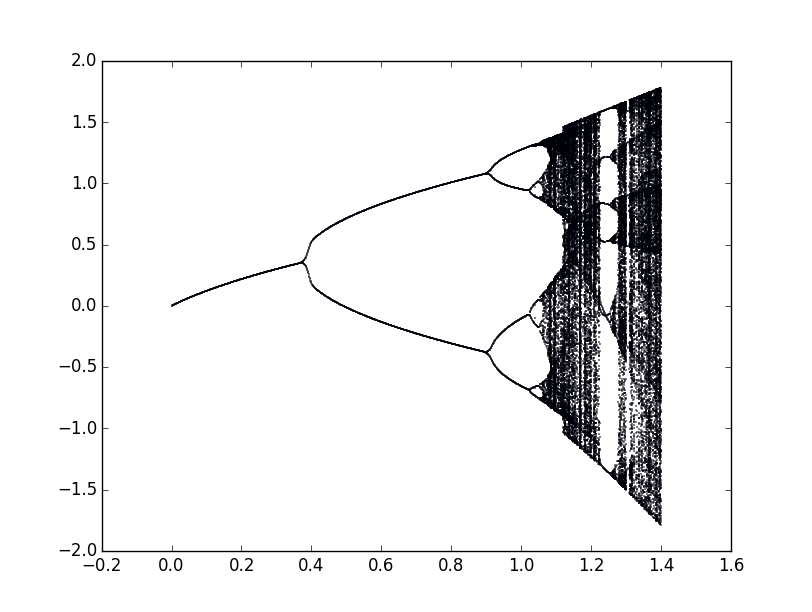
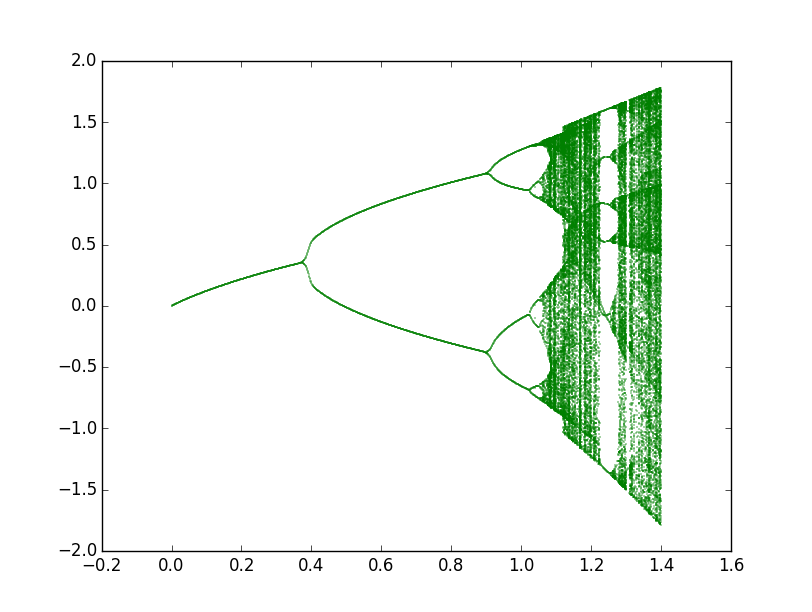
Initial commit

diff --git a/henonmap.html b/henonmap.html
@@ -132,7 +132,7 @@ python</code>
 <div class="math">
 \begin{equation*}
 \begin{cases}
-x_{n+1} = a-x_n ^2 + byn \\
+x_{n+1} = a-x_n ^2 + by_n \\
 y_{n+1} = x_n
 \end{cases}
 \end{equation*}
@@ -146,8 +146,8 @@ y_{n+1} = x_n
 
 <span class="sd">&quot;&quot;&quot;</span>
 <span class="sd">Bifurcation diagram for the Hénon map</span>
-<span class="sd">  x_n+1 = a-xn*xn+b*yn</span>
-<span class="sd">  y_n+1 = xn</span>
+<span class="sd">  x_{n+1} = a-xn*xn+b*yn</span>
+<span class="sd">  y_{n+1} = xn</span>
 <span class="sd">&quot;&quot;&quot;</span>
 
 <span class="c"># Scientific libraries</span>
@@ -158,19 +158,18 @@ y_{n+1} = x_n
 <span class="n">EPS</span> <span class="o">=</span> <span class="mf">0.01</span>
 <span class="n">MAXP</span> <span class="o">=</span> <span class="mi">1000</span>
 
-<span class="n">AA</span> <span class="o">=</span> <span class="p">[]</span>
-<span class="n">XX</span> <span class="o">=</span> <span class="p">[]</span>
-<span class="n">YY</span> <span class="o">=</span> <span class="p">[]</span>
-<span class="n">PP</span> <span class="o">=</span> <span class="p">[]</span>
+<span class="c"># Hénon map</span>
 
 <span class="n">b</span> <span class="o">=</span> <span class="mf">0.3</span>
-<span class="nb">file</span> <span class="o">=</span> <span class="nb">open</span><span class="p">(</span><span class="s">&quot;diagram.dat&quot;</span><span class="p">,</span><span class="s">&quot;w&quot;</span><span class="p">)</span>
+<span class="k">def</span> <span class="nf">henon</span><span class="p">(</span><span class="n">xn</span><span class="p">,</span> <span class="n">yn</span><span class="p">):</span>
+    <span class="k">return</span> <span class="p">[</span><span class="n">a</span><span class="o">-</span><span class="n">xn</span><span class="o">*</span><span class="n">xn</span><span class="o">+</span><span class="n">b</span><span class="o">*</span><span class="n">yn</span><span class="p">,</span> <span class="n">xn</span><span class="p">]</span>
 
 <span class="c"># Compute bifurcations and write in a data file</span>
 
+<span class="nb">file</span> <span class="o">=</span> <span class="nb">open</span><span class="p">(</span><span class="s">&quot;diagram.dat&quot;</span><span class="p">,</span><span class="s">&quot;w&quot;</span><span class="p">)</span>
 <span class="k">print</span><span class="p">(</span><span class="s">&#39;Beginning computing&#39;</span><span class="p">)</span>
 
-<span class="k">for</span> <span class="n">a</span> <span class="ow">in</span> <span class="n">np</span><span class="o">.</span><span class="n">arange</span><span class="p">(</span><span class="mi">0</span><span class="p">,</span><span class="mf">1.4</span><span class="p">,</span><span class="mf">0.001</span><span class="p">):</span>
+<span class="k">for</span> <span class="n">a</span> <span class="ow">in</span> <span class="n">np</span><span class="o">.</span><span class="n">arange</span><span class="p">(</span><span class="mi">0</span><span class="p">,</span> <span class="mf">1.4</span><span class="p">,</span> <span class="mf">0.001</span><span class="p">):</span>
     <span class="k">if</span> <span class="nb">int</span><span class="p">(</span><span class="mi">100</span><span class="o">*</span><span class="n">a</span><span class="p">)</span><span class="o">%</span><span class="mi">10</span> <span class="o">==</span> <span class="mi">0</span><span class="p">:</span><span class="k">print</span><span class="p">(</span><span class="s">&#39;.&#39;</span><span class="p">,</span><span class="n">end</span><span class="o">=</span><span class="s">&#39;&#39;</span><span class="p">)</span>
     <span class="n">p</span> <span class="o">=</span> <span class="mi">1</span>
     <span class="n">X0</span><span class="p">,</span> <span class="n">Y0</span> <span class="o">=</span> <span class="p">(</span><span class="mi">1</span><span class="o">-</span><span class="n">b</span><span class="p">)</span><span class="o">/</span><span class="mi">2</span><span class="p">,</span> <span class="p">(</span><span class="mi">1</span><span class="o">-</span><span class="n">b</span><span class="p">)</span><span class="o">/</span><span class="mi">2</span>
@@ -178,28 +177,20 @@ y_{n+1} = x_n
     <span class="n">find</span> <span class="o">=</span> <span class="mi">0</span>
     <span class="n">xn</span><span class="p">,</span> <span class="n">yn</span> <span class="o">=</span> <span class="n">x</span><span class="p">,</span> <span class="n">y</span>
     <span class="k">for</span> <span class="n">i</span> <span class="ow">in</span> <span class="nb">range</span><span class="p">(</span><span class="mi">100</span><span class="p">):</span>
-        <span class="n">X</span><span class="p">,</span> <span class="n">Y</span> <span class="o">=</span> <span class="n">a</span><span class="o">-</span><span class="n">xn</span><span class="o">*</span><span class="n">xn</span><span class="o">+</span><span class="n">b</span><span class="o">*</span><span class="n">yn</span><span class="p">,</span> <span class="n">xn</span>
-        <span class="n">xn</span><span class="p">,</span> <span class="n">yn</span> <span class="o">=</span> <span class="n">X</span><span class="p">,</span> <span class="n">Y</span>
+        <span class="n">xn</span><span class="p">,</span> <span class="n">yn</span> <span class="o">=</span> <span class="n">henon</span><span class="p">(</span><span class="n">xn</span><span class="p">,</span> <span class="n">yn</span><span class="p">)</span>
     <span class="n">x</span><span class="p">,</span> <span class="n">y</span> <span class="o">=</span> <span class="n">xn</span><span class="p">,</span> <span class="n">yn</span>
-    <span class="k">while</span> <span class="bp">True</span><span class="p">:</span>
+    <span class="k">while</span> <span class="p">(</span><span class="n">p</span> <span class="o">&lt;</span> <span class="n">MAXP</span> <span class="ow">and</span> <span class="n">find</span> <span class="o">==</span> <span class="mi">0</span><span class="p">):</span>
         <span class="n">xn</span><span class="p">,</span> <span class="n">yn</span> <span class="o">=</span> <span class="n">x</span><span class="p">,</span> <span class="n">y</span>
-        <span class="n">P</span><span class="o">=</span><span class="mi">1</span>
-        <span class="k">while</span> <span class="n">P</span> <span class="o">&lt;=</span> <span class="n">p</span><span class="p">:</span>
-            <span class="n">X</span><span class="p">,</span> <span class="n">Y</span> <span class="o">=</span> <span class="n">a</span><span class="o">-</span><span class="n">xn</span><span class="o">*</span><span class="n">xn</span><span class="o">+</span><span class="n">b</span><span class="o">*</span><span class="n">yn</span><span class="p">,</span> <span class="n">xn</span>
-            <span class="n">xn</span><span class="p">,</span> <span class="n">yn</span> <span class="o">=</span> <span class="n">X</span><span class="p">,</span> <span class="n">Y</span>
-            <span class="n">P</span> <span class="o">=</span> <span class="n">P</span><span class="o">+</span><span class="mi">1</span>
-        <span class="k">if</span> <span class="nb">abs</span><span class="p">(</span><span class="n">X</span><span class="o">-</span><span class="n">x</span><span class="p">)</span><span class="o">&lt;</span><span class="n">EPS</span><span class="p">:</span>
+        <span class="k">for</span> <span class="n">P</span> <span class="ow">in</span> <span class="nb">range</span><span class="p">(</span><span class="n">p</span><span class="p">):</span>
+            <span class="n">xn</span><span class="p">,</span> <span class="n">yn</span><span class="o">=</span> <span class="n">henon</span><span class="p">(</span><span class="n">xn</span><span class="p">,</span> <span class="n">yn</span><span class="p">)</span>
+        <span class="k">if</span> <span class="nb">abs</span><span class="p">(</span><span class="n">xn</span><span class="o">-</span><span class="n">x</span><span class="p">)</span><span class="o">&lt;</span><span class="n">EPS</span><span class="p">:</span>
             <span class="n">xn</span><span class="p">,</span> <span class="n">yn</span> <span class="o">=</span> <span class="n">x</span><span class="p">,</span> <span class="n">y</span>
             <span class="n">find</span> <span class="o">=</span> <span class="mi">1</span>
-            <span class="n">P</span> <span class="o">=</span> <span class="mi">1</span>
-            <span class="k">while</span> <span class="n">P</span> <span class="o">&lt;=</span> <span class="n">p</span><span class="p">:</span>
-                <span class="n">X</span><span class="p">,</span> <span class="n">Y</span> <span class="o">=</span> <span class="n">a</span><span class="o">-</span><span class="n">xn</span><span class="o">*</span><span class="n">xn</span><span class="o">+</span><span class="n">b</span><span class="o">*</span><span class="n">yn</span><span class="p">,</span> <span class="n">xn</span>
-                <span class="n">xn</span><span class="p">,</span> <span class="n">yn</span> <span class="o">=</span> <span class="n">X</span><span class="p">,</span> <span class="n">Y</span>
-                <span class="nb">file</span><span class="o">.</span><span class="n">write</span><span class="p">(</span><span class="nb">str</span><span class="p">(</span><span class="n">a</span><span class="p">)</span><span class="o">+</span><span class="s">&#39; &#39;</span><span class="o">+</span><span class="nb">str</span><span class="p">(</span><span class="n">X</span><span class="p">)</span><span class="o">+</span><span class="s">&#39;</span><span class="se">\n</span><span class="s">&#39;</span><span class="p">)</span>
-                <span class="n">P</span> <span class="o">=</span> <span class="n">P</span><span class="o">+</span><span class="mi">1</span>
+            <span class="k">for</span> <span class="n">P</span> <span class="ow">in</span> <span class="nb">range</span><span class="p">(</span><span class="n">p</span><span class="p">):</span>
+                <span class="n">xn</span><span class="p">,</span> <span class="n">yn</span> <span class="o">=</span> <span class="n">a</span><span class="o">-</span><span class="n">xn</span><span class="o">*</span><span class="n">xn</span><span class="o">+</span><span class="n">b</span><span class="o">*</span><span class="n">yn</span><span class="p">,</span> <span class="n">xn</span>
+                <span class="nb">file</span><span class="o">.</span><span class="n">write</span><span class="p">(</span><span class="nb">str</span><span class="p">(</span><span class="n">a</span><span class="p">)</span><span class="o">+</span><span class="s">&#39; &#39;</span><span class="o">+</span><span class="nb">str</span><span class="p">(</span><span class="n">xn</span><span class="p">)</span><span class="o">+</span><span class="s">&#39;</span><span class="se">\n</span><span class="s">&#39;</span><span class="p">)</span>
         <span class="n">p</span> <span class="o">=</span> <span class="n">p</span><span class="o">+</span><span class="mi">1</span>
-        <span class="k">if</span> <span class="ow">not</span> <span class="p">(</span><span class="n">p</span> <span class="o">&lt;</span> <span class="n">MAXP</span> <span class="ow">and</span> <span class="n">find</span> <span class="o">==</span> <span class="mi">0</span><span class="p">):</span>
-            <span class="k">break</span>
+
 <span class="nb">file</span><span class="o">.</span><span class="n">close</span><span class="p">()</span>
 
 <span class="c"># Open data file</span>
@@ -216,7 +207,7 @@ y_{n+1} = x_n
 <span class="c"># Figure</span>
 
 <span class="n">fig</span><span class="p">,</span> <span class="n">ax</span> <span class="o">=</span> <span class="n">plt</span><span class="o">.</span><span class="n">subplots</span><span class="p">()</span>
-<span class="n">ax</span><span class="o">.</span><span class="n">scatter</span><span class="p">(</span><span class="n">x</span><span class="p">,</span> <span class="n">y</span><span class="p">,</span> <span class="n">s</span><span class="o">=</span><span class="mf">0.1</span><span class="p">)</span>
+<span class="n">ax</span><span class="o">.</span><span class="n">scatter</span><span class="p">(</span><span class="n">x</span><span class="p">,</span> <span class="n">y</span><span class="p">,</span> <span class="n">s</span><span class="o">=</span><span class="mf">0.05</span><span class="p">,</span> <span class="n">color</span><span class="o">=</span><span class="s">&#39;green&#39;</span><span class="p">)</span>
 <span class="n">plt</span><span class="o">.</span><span class="n">show</span><span class="p">()</span>
 </pre></div>
 <script type='text/javascript'>if (!document.getElementById('mathjaxscript_pelican_#%@#$@#')) {
